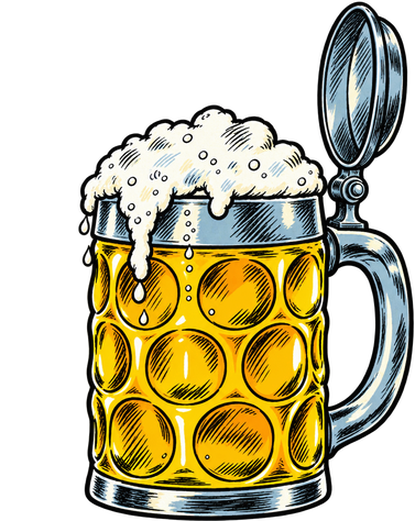
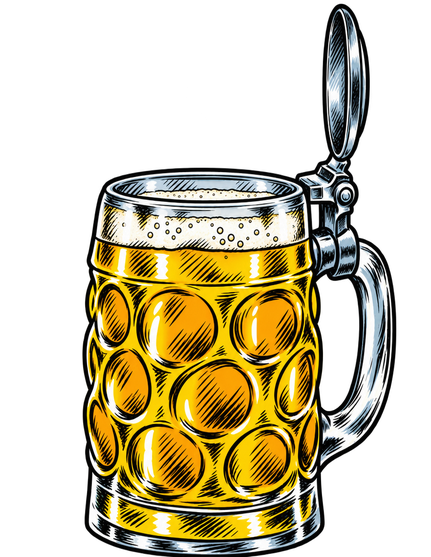
Save screen: one mug in four matching states, choices on the glass
r101/r102 open and empty states lined up to the r96 master (same width,
base and size); empty slots now open too.

Claude-Session: https://claude.ai/code/session_01GrbNTwVienMcpmsk1Pgq12

diff --git a/guides/DESIGNER_MANUAL.md b/guides/DESIGNER_MANUAL.md
@@ -7694,13 +7694,13 @@ The three mugs ARE the save files, set in **`data/SaveMugs.csv`**:
 
 | Part | what it sets |
 |---|---|
-| `closed_full`, `open_full`, `closed_empty` | Image = the mug pictures (r96 comic glass; r99 empty mug = the same glass as the full one): a full mug is a used save, an empty glass is an empty slot, the open lid shows when you click a used mug |
+| `closed_full`, `open_full`, `closed_empty`, `open_empty` | Image = the mug pictures, all one mug at one size (r96 master, r101-r102 the other states, lined up for free): full = a used save, empty = an empty slot, the open lid shows when you click it |
 | `slot` (one row per save, top = slot 1) | X, Y = the bottom middle of the mug on the 1920 x 1080 screen |
 | `name_text` | under a closed mug, "Slot 1 · 3 matches" on a see-through dark backing: Y = the gap below the mug, Size = letter size |
-| `menu` | under an open mug (Anthony: "have the options be on the bottom"): X = button width, Y = gap below the mug, Size = letter size |
+| `menu` | on the open mug's glass, one above the other (Anthony): X = button width, Y = how far above the mug's bottom their middle sits, Size = letter size |
 
 **Click a mug:** its lid opens and Play / Profile Settings / Delete appear
-under it (an empty mug offers only Play, which starts a new game). Click it
+on its glass (an empty mug offers only Play, which starts a new game). Click it
 again to close it.
 
 **Profile Settings vs General Settings.** Each save keeps its own settings in
